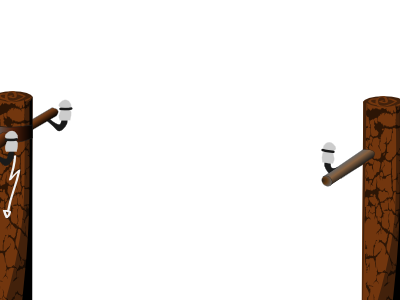
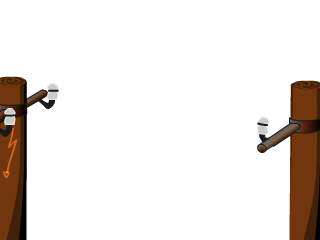
[birdsplugin] added missing images and clean up old ones

Changed region(s): [[0.0, 0.2917, 0.1875, 1.0], [0.7812, 0.2917, 1.0, 1.0]]

diff --git a/plugins/birdsplugin/normalanimation.cpp b/plugins/birdsplugin/normalanimation.cpp
@@ -17,7 +17,7 @@ void NormalAnimation::reset()
 {
     _scene->clear();
 
-    _scene->addPixmap(QPixmap(":/birds/images/higru_new.png"));
+    _scene->addPixmap(QPixmap(":/birds/images/higru.png"));
 
     _clouds = _scene->addPixmap(QPixmap(":/birds/images/normalclouds.png"));
     _clouds->setPos(_scene->sceneRect().x(), _scene->sceneRect().y());
@@ -25,19 +25,19 @@ void NormalAnimation::reset()
     _clouds2->setPos(_scene->sceneRect().x() - _scene->sceneRect().width(), _scene->sceneRect().y());
 
     QPen cordPen;
-    cordPen.setWidth(3);
+    cordPen.setWidth(2);
     cordPen.setCapStyle(Qt::RoundCap);
 
     // front cord
-    QPainterPath p1(QPointF(20, 78));
-    p1.cubicTo(90, 90 + (qSin(_counter/10)*2), 130, 95 + (qSin((_counter+5)/10)*1), 262, 85);
+    QPainterPath p1(QPointF(15, 115));
+    p1.cubicTo(90, 128 + (qSin(_counter/10)*2), 130, 135 + (qSin((_counter+5)/10)*1), 257, 125);
     _cord1 = _scene->addPath(p1, cordPen);
     //force front cord to be in front of pillars
     _cord1->setZValue(10);
 
     // rear cord
-    QPainterPath p2(QPointF(63, 53));
-    p2.quadTo(170, 68 + (qSin((_counter+qrand()%5)/10)), 300, 60);
+    QPainterPath p2(QPointF(58, 90));
+    p2.quadTo(170, 102 + (qSin((_counter+qrand()%5)/10)), 300, 95);
     _cord2 = _scene->addPath(p2, cordPen);
 
     _swingGroup = new QGraphicsItemGroup();
@@ -48,7 +48,7 @@ void NormalAnimation::reset()
     QPointF swingKnot2(p1.pointAtPercent(0.9));
     QGraphicsPixmapItem* swing = _scene->addPixmap(QPixmap(":/birds/images/swing.png"));
     swing->scale(0.8, 0.8);
-    swing->translate(0, -45);
+    //swing->translate(0, -45);
     _swingGroup->addToGroup(swing);
 
     _birds = new QGraphicsItemGroup();
@@ -76,6 +76,30 @@ void NormalAnimation::reset()
     _largebird->rightWing->translate(35, 47);
     _largebird->rightWing->scale(0.23, 0.23);
     _largebird->group->addToGroup(_largebird->rightWing);
+    _largebird->leftFoot = _scene->addPixmap(QPixmap(":/birds/images/footll"));
+    _largebird->leftFoot->translate(20, 77);
+    _largebird->group->addToGroup(_largebird->leftFoot);
+    _largebird->rightFoot = _scene->addPixmap(QPixmap(":/birds/images/footlr"));
+    _largebird->rightFoot->translate(30, 77);
+    _largebird->group->addToGroup(_largebird->rightFoot);
+    _largebird->leftEye = _scene->addPixmap(QPixmap(":/birds/images/eye.png"));
+    _largebird->leftEye->translate(2, 17);
+    _largebird->leftEye->scale(0.4, 0.4);
+    _largebird->group->addToGroup(_largebird->leftEye);
+    _largebird->rightEye = _scene->addPixmap(QPixmap(":/birds/images/eye.png"));
+    _largebird->rightEye->translate(20, 17);
+    _largebird->rightEye->scale(0.4, 0.4);
+    _largebird->group->addToGroup(_largebird->rightEye);
+    _largebird->leftIris = _scene->addEllipse(6, 22, 5, 5, QPen(Qt::black), Qt::SolidPattern);
+    _largebird->group->addToGroup(_largebird->leftIris);
+    _largebird->rightIris = _scene->addEllipse(24, 22, 5, 5, QPen(Qt::black), Qt::SolidPattern);
+    _largebird->group->addToGroup(_largebird->rightIris);
+    _largebird->eyebrows = _scene->addPixmap(QPixmap(":/birds/images/eyebrows.png"));
+    _largebird->eyebrows->translate(0, 15);
+    _largebird->group->addToGroup(_largebird->eyebrows);
+    _largebird->beak = _scene->addPixmap(QPixmap(":/birds/images/beakl.png"));
+    _largebird->beak->translate(-3, 28);
+    _largebird->group->addToGroup(_largebird->beak);
 
     _largebird->group->translate(92, 65);
 
@@ -101,6 +125,19 @@ void NormalAnimation::reset()
     _smallbird->rightWing->translate(22, 23);
     _smallbird->rightWing->scale(0.23, 0.23);
     _smallbird->group->addToGroup(_smallbird->rightWing);
+    _smallbird->leftFoot = _scene->addPixmap(QPixmap(":/birds/images/footsl"));
+    _smallbird->leftFoot->translate(10, 40);
+    _smallbird->group->addToGroup(_smallbird->leftFoot);
+    _smallbird->rightFoot = _scene->addPixmap(QPixmap(":/birds/images/footsr"));
+    _smallbird->rightFoot->translate(15, 40);
+    _smallbird->group->addToGroup(_smallbird->rightFoot);
+    _smallbird->leftEye = _scene->addEllipse(5, 8, 3, 3, QPen(Qt::white, 1), QBrush(Qt::black, Qt::SolidPattern));
+    _smallbird->group->addToGroup(_smallbird->leftEye);
+    _smallbird->rightEye = _scene->addEllipse(13, 8, 3, 3, QPen(Qt::white, 1), QBrush(Qt::black, Qt::SolidPattern));
+    _smallbird->group->addToGroup(_smallbird->rightEye);
+    _smallbird->beak = _scene->addPixmap(QPixmap(":/birds/images/beaks.png"));
+    _smallbird->beak->translate(5, 11);
+    _smallbird->group->addToGroup(_smallbird->beak);
 
     _smallbird->group->translate(152, 106);
 
@@ -116,7 +153,7 @@ void NormalAnimation::reset()
 #ifdef BIRDS_DEBUG
     qDebug() << "Resetting _clouds to" << _scene->sceneRect().x() - _scene->sceneRect().width();
 #endif
-    _scene->addPixmap(QPixmap(":/birds/images/pillars_new2.png"));
+    _scene->addPixmap(QPixmap(":/birds/images/pillars.png"));
 }
 
 void NormalAnimation::step()
@@ -147,13 +184,13 @@ void NormalAnimation::step()
     QPointF oldKnot1(_cord1->path().pointAtPercent(0.7));
     QPointF oldBirdPos(_cord1->path().pointAtPercent(0.5));
     // front cord
-    QPainterPath p1(QPointF(20, 78));
-    p1.cubicTo(90, 90 + (qSin(_counter/10)*2), 130, 95 + (qSin((_counter+5)/10)*1), 262, 85);
+    QPainterPath p1(QPointF(15, 115));
+    p1.cubicTo(90, 128 + (qSin(_counter/10)*2), 130, 135 + (qSin((_counter+5)/10)*1), 257, 125);
     _cord1->setPath(p1);
 
     // rear cord
-    QPainterPath p2(QPointF(63, 53));
-    p2.quadTo(170, 68 + (qSin((_counter+qrand()%5)/10)), 300, 60);
+    QPainterPath p2(QPointF(58, 90));
+    p2.quadTo(170, 102 + (qSin((_counter+qrand()%5)/10)), 300, 95);
     _cord2->setPath(p2);
 
     QPointF newKnot1(_cord1->path().pointAtPercent(0.7));
@@ -169,7 +206,7 @@ void NormalAnimation::step()
 
     QSizeF textsize = _consumption->boundingRect().size();
     QPointF swingpos = _swingGroup->scenePos();
-    _consumption->setPos(260 - textsize.width() + swingpos.x(), 163 - textsize.height() + swingpos.y());
+    _consumption->setPos(260 - textsize.width() + swingpos.x(), 195 - textsize.height() + swingpos.y());
 
     _swingGroup->translate(0, newKnot1.y() - oldKnot1.y());
     _birds->translate(0, newBirdPos.y() - oldBirdPos.y());

diff --git a/plugins/birdsplugin/normalanimation.h b/plugins/birdsplugin/normalanimation.h
@@ -8,12 +8,25 @@ class NormalAnimation : public BirdsAnimation
     Q_OBJECT
 
     struct SmallBird {
-        QGraphicsPixmapItem *body, *leftWing, *rightWing, *tail, *hair;
+        QGraphicsPixmapItem *body;
+        QGraphicsPixmapItem *leftWing, *rightWing;
+        QGraphicsPixmapItem *tail;
+        QGraphicsPixmapItem *leftFoot, *rightFoot;
+        QGraphicsPixmapItem *hair;
+        QGraphicsEllipseItem *leftEye, *rightEye;
+        QGraphicsPixmapItem *beak;
         QGraphicsItemGroup *group;
     };
 
     struct LargeBird {
-        QGraphicsPixmapItem *body, *leftWing, *rightWing, *tail;
+        QGraphicsPixmapItem *body;
+        QGraphicsPixmapItem *leftWing, *rightWing;
+        QGraphicsPixmapItem *tail;
+        QGraphicsPixmapItem *leftFoot, *rightFoot;
+        QGraphicsPixmapItem *eyebrows;
+        QGraphicsPixmapItem *leftEye, *rightEye;
+        QGraphicsEllipseItem *leftIris, *rightIris;
+        QGraphicsPixmapItem *beak;
         QGraphicsItemGroup *group;
     };
 
